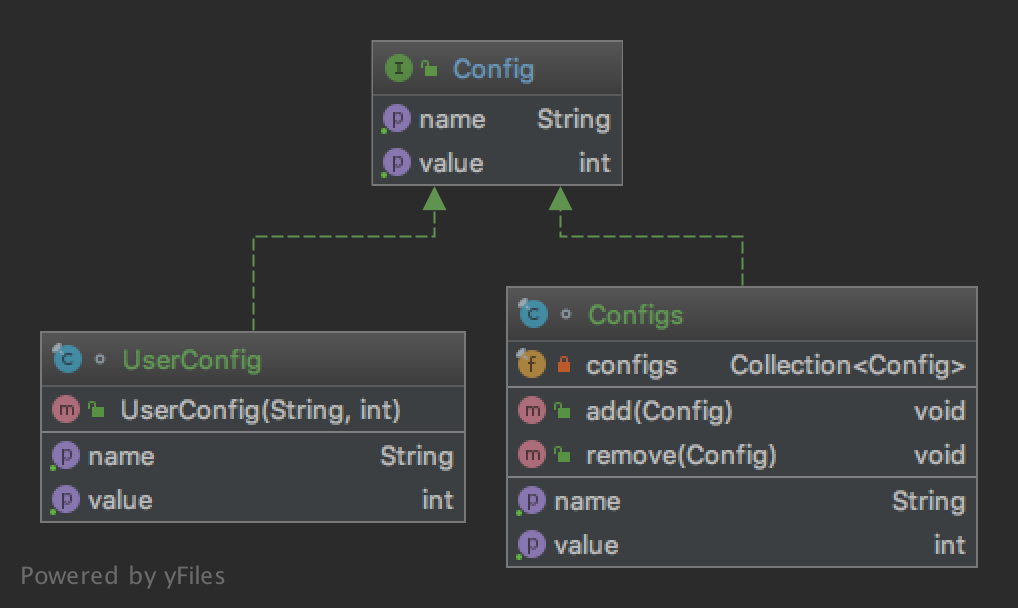
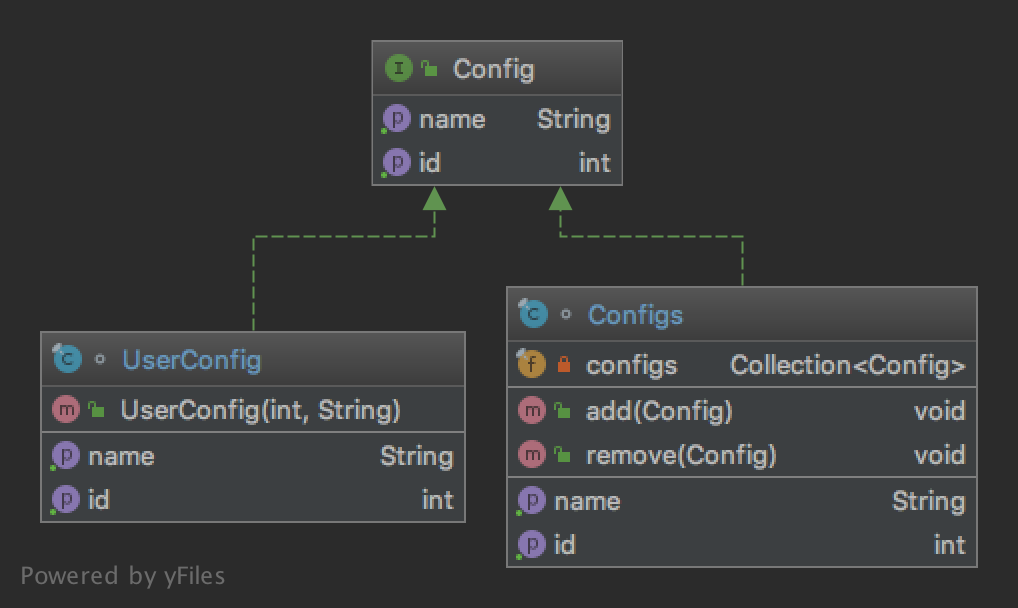
Updated the composite design pattern.

diff --git a/design-patterns/src/main/java/com/github/akarazhev/tutorial/designpatterns/composite/UserConfig.java b/design-patterns/src/main/java/com/github/akarazhev/tutorial/designpatterns/composite/UserConfig.java
@@ -1,29 +1,31 @@
 package com.github.akarazhev.tutorial.designpatterns.composite;
 
+import com.github.akarazhev.tutorial.designpatterns.adapter.Config;
+
 /**
  * The user config model that contains parameters.
  */
 final class UserConfig implements Config {
+    private final int id;
     private final String name;
-    private final int value;
 
     /**
-     * Constructs a user config based on the name and value.
+     * Constructs a user config based on the id and name.
      *
-     * @param name  the name.
-     * @param value the value.
+     * @param id   the name.
+     * @param name the name.
      */
-    public UserConfig(final String name, final int value) {
+    public UserConfig(final int id, final String name) {
+        this.id = id;
         this.name = name;
-        this.value = value;
     }
 
     /**
      * {@inheritDoc}
      */
     @Override
-    public int getValue() {
-        return value;
+    public int getId() {
+        return id;
     }
 
     /**

diff --git a/design-patterns/src/test/java/com/github/akarazhev/tutorial/designpatterns/composite/UserConfigTest.java b/design-patterns/src/test/java/com/github/akarazhev/tutorial/designpatterns/composite/UserConfigTest.java
@@ -12,16 +12,16 @@ import static org.junit.jupiter.api.Assertions.assertEquals;
 final class UserConfigTest {
 
     @Test
-    @DisplayName("Get a user config value")
-    void getUserConfigValue() {
-        final UserConfig userConfig = new UserConfig("Name", 100);
-        assertEquals(100, userConfig.getValue());
+    @DisplayName("Get a user config id")
+    void getUserConfigId() {
+        final UserConfig userConfig = new UserConfig(100, "Name");
+        assertEquals(100, userConfig.getId());
     }
 
     @Test
     @DisplayName("Get a user config name")
     void getUserConfigName() {
-        final UserConfig userConfig = new UserConfig("Name", 100);
+        final UserConfig userConfig = new UserConfig(100, "Name");
         assertEquals("Name", userConfig.getName());
     }
 }

diff --git a/design-patterns/src/test/java/com/github/akarazhev/tutorial/designpatterns/composite/ConfigsTest.java b/design-patterns/src/test/java/com/github/akarazhev/tutorial/designpatterns/composite/ConfigsTest.java
@@ -12,18 +12,18 @@ import static org.junit.jupiter.api.Assertions.assertEquals;
 final class ConfigsTest {
 
     @Test
-    @DisplayName("Get a configs value")
-    void getConfigsValue() {
+    @DisplayName("Get a configs id")
+    void getConfigsId() {
         final var configs = new Configs();
-        configs.add(new UserConfig("Name", 100));
-        assertEquals(100, configs.getValue());
+        configs.add(new UserConfig(100, "Name"));
+        assertEquals(100, configs.getId());
     }
 
     @Test
     @DisplayName("Get a configs name")
     void getConfigsName() {
         final var configs = new Configs();
-        configs.add(new UserConfig("Name", 100));
+        configs.add(new UserConfig(100, "Name"));
         assertEquals("Name", configs.getName());
     }
 }

diff --git a/design-patterns/src/main/java/com/github/akarazhev/tutorial/designpatterns/composite/Configs.java b/design-patterns/src/main/java/com/github/akarazhev/tutorial/designpatterns/composite/Configs.java
@@ -1,5 +1,7 @@
 package com.github.akarazhev.tutorial.designpatterns.composite;
 
+import com.github.akarazhev.tutorial.designpatterns.adapter.Config;
+
 import java.util.Collection;
 import java.util.LinkedList;
 
@@ -31,10 +33,10 @@ final class Configs implements Config {
      * {@inheritDoc}
      */
     @Override
-    public int getValue() {
+    public int getId() {
         int value = 0;
         for (final var config : configs) {
-            value += config.getValue();
+            value += config.getId();
         }
 
         return value;

diff --git a/design-patterns/doc/composite.md b/design-patterns/doc/composite.md
@@ -32,12 +32,12 @@ The task:
 
 > Let's consider we have a general config object that contains user configs and they should have a uniform way of the processing.
 
-Let's create a config interface:
+Let's re-use the existed interface from the adapter chapter:
 
 ```java
 public interface Config {
 
-    int getValue();
+    int getId();
 
     String getName();
 }
@@ -58,10 +58,10 @@ final class Configs implements Config {
     }
 
     @Override
-    public int getValue() {
+    public int getId() {
         int value = 0;
         for (final var config : configs) {
-            value += config.getValue();
+            value += config.getId();
         }
 
         return value;
@@ -84,17 +84,17 @@ The user config may look like:
 
 ```java
 final class UserConfig implements Config {
+    private final int id;
     private final String name;
-    private final int value;
 
-    public UserConfig(final String name, final int value) {
+    public UserConfig(final int id, final String name) {
+        this.id = id;
         this.name = name;
-        this.value = value;
     }
 
     @Override
-    public int getValue() {
-        return value;
+    public int getId() {
+        return id;
     }
 
     @Override
@@ -108,11 +108,10 @@ And finally it can be used as:
 
 ```java
 final var configs = new Configs();
-configs.add(new UserConfig("Name", 100));
+configs.add(new UserConfig(100, "Name"));
 // Additional code
+final var id = configs.getId();
 final var name = configs.getName();
-final var value = configs.getValue();
-// Additional code
 ```
 
 ## More Examples
